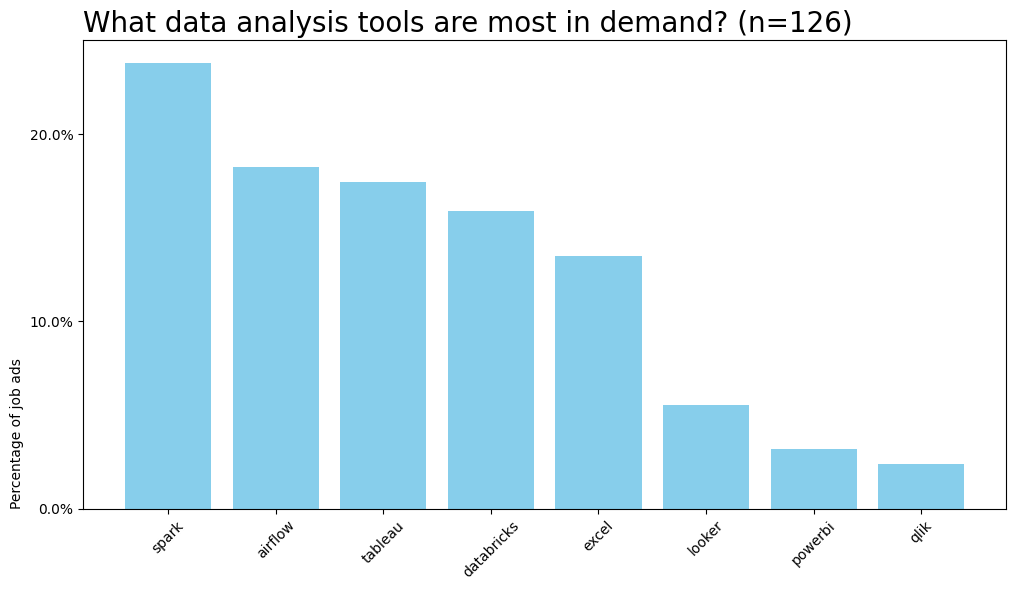
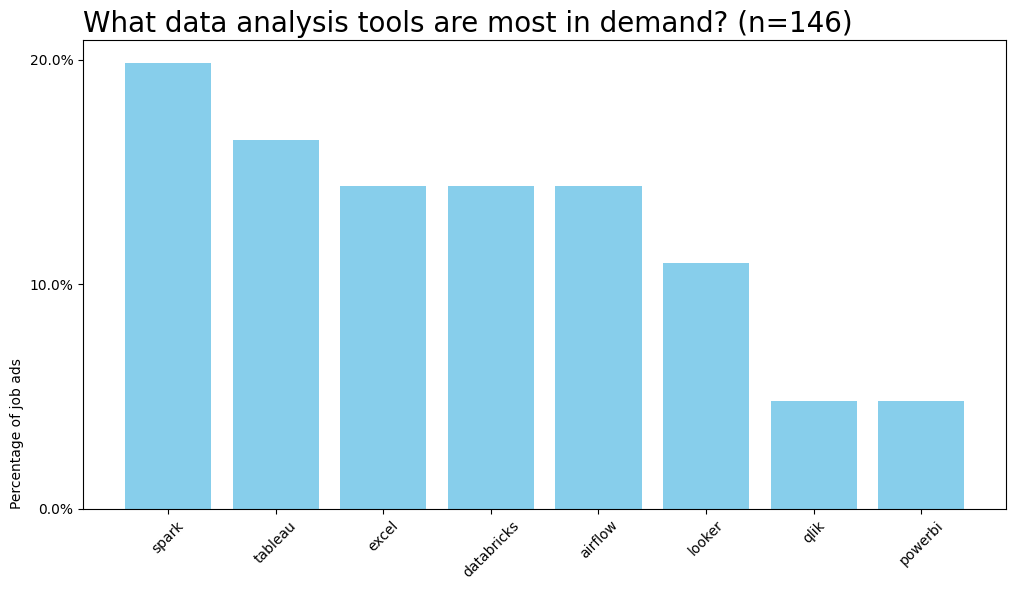
change job ads post

diff --git a/content/post/berlin_job_market/index.md b/content/post/berlin_job_market/index.md
@@ -13,41 +13,55 @@ tags:
 comments: false
 ---
 
-So you want to move into the data field but are unsure where to focus your energy? Look no further!
+So you want to move into the data field but are unsure where to focus your energy? So many different tools, programming langauges and technologies - where to start? **Well... look no further!**
+
+> _-------------- Descriptive analytics of +400 job ads from the Berlin tech market 2024 --------------_
+
+## Programming languages
 
 Firstly let's investigate the most popular programming langauges in data jobs in Berlin.
 
 ![Fig 1 - Programming languages](proglang.png)
 
-It's pretty clear that Python and SQL are the most in demand skills, with a whopping 37% and 32% of all data jobs asking for these skills respectively. The gender-diverse Kings and Queens of data analysis reign supreme! Now this may not be a huge surprise, but what is also interesting to note is the runners up:
+It's pretty clear that **Python and SQL** are the most in demand skills, with over a third of all data jobs asking for these skills respectively. The gender-diverse Kings and Queens of data analysis reign supreme! Now this may not be a huge surprise, but what is also interesting to note is the runners up:
 
-- **Java** - Used often big data data processing and analysis (efficient and scalable).
-- **Scala** - Used for solving big data problems (the language chosen by Apache Spark and works well with Java).
-- **R** - Is a statistical powerhouse with comprehensive ecosystem of packages for analysis, visualisation and ML.
-- **C++** - Used for high power processing due to it's resource effiency (e.g. high frequency trading, complex simulations).
+- **Java** is commonly used for processing and analyzing large amounts of data efficiently.
+- **Scala**  excels at handling big data problems, favored by Apache Spark and compatible with Java..
+- **R** focuses on statistical analysis, with a large collection of packages for data analysis, visualization, and machine learning.
+- **C++** is a powerful programming language known for its efficiency, making it ideal for tasks requiring intense processing, like high-frequency trading or complex simulations.
 
-**Open-source alert!**: Notice how the only two closed-source languages are Matlab and SAS.
+> **Open-source alert!**: Notice how the only two "closed-source" languages are Matlab and SAS (and those you need to pay to use).
 
 Let's move onto data analysis tools...
 
+## Analysis tools
+
+Analysis tools are softwares which make engineers and analysts lives easier as part of their everyday workflow, including things like data visualisation, big data handling, scheduling and more...
+
 ![Fig 2 - Data tools](dattools.png)
 
-Here most people will know Tableau and Excel but what about the other tools?
+Here most people will know **Tableau and Excel** but what about the other tools?
 
-- **Spark** - Apache Spark is a scalable data analysis tool.
-- **Airflow** -  Apache Airflow allow for scheduling and monitoring workflows (e.g. machine learning pipelines).
-- **Databricks** - Databricks is a data warehousing and AI tool (interestingly it was founded by the creators of Apache Spark).
+- **Spark** is an Apache tool that can handle and analyze large amounts of data quickly..
+- **Airflow** is another Apache tool for setting up and keeping an eye on a series of tasks, such as data processing or machine learning steps
+- **Databricks** is a platform for storing data and building AI applications (also made by the developers of Apache Spark). 
 
-What's the deal with all this "Apache"? Well, it's part of the [Apache Software Foundation](https://apache.org/) producing cutting edge open-source (and often **free**) software solutions for many different applications. 
+What's the deal with all this "**Apache**" software? Well, it's part of the [Apache Software Foundation](https://apache.org/) (ASF) a non-profit organization that supports and promotes open-source software projects.
 
-**Open-source alert again!**: With all this free and open-source software (FOSS) around, it's almost surprising that Tableau is still kicking around in the most demanded tools, even though it is propreitary and closed-source, costing around €500-€1000 per year. I doubt this will be for long and predict Tableau to be superceded by a FOSS equivalent within the next 5 years. What do you think?
+> **Open-source alert again!**: With all this free and open-source software (FOSS) around, it's almost surprising that Tableau is still kicking around in the most demanded tools, even though it is propreitary and closed-source, costing around €500-€1000 per year. Do you think there will be a FOSS equivalent within the next 5 years?
 
-Finally... let's check out the Python packages most in demand in 2024:
+Finally... let's check out the Python packages most in demand in 2024.
+
+## Python packages
 
 ![Fig 3 - Python packages](pypack.png)
 
-What do all these Python packages do? Well Pytorch, Tensorflow and Keras are all deep learning and AI packages for complex machine learning problems. Pandas is your everyday data handling tool, scikitlearn your basic ML tool and matplotlib is used for visualisations.
+What do all these Python packages do? Well Pytorch, Tensorflow and Keras are all deep learning and AI packages for complex machine learning problems. Pandas is your everyday data handling tool, scikitlearn your basic ML tool and matplotlib is used for visualisations. Basically, a comprehensive toolkit for building data analytics and machine learning tools!
 
-**TLDR**: If you want a data job in Berlin in 2024, learn Python, SQL and one Apache tool (like Spark or Airflow) and consider becoming a data engineer!
+> **TLDR**: If you want to be competing for Berlin data jobs in 2024, learn Python, SQL and one Apache tool (like Spark or Airflow)!
 
-Checkout the full code [here](https://www.kaggle.com/code/wilomentena/summary-statistics-of-data-job-market-berlin)
+Finally, of course you have to also think for yourself and take this work critically! But this overview hopes to give you a more quantitative approach for your data job journey. 
+
+Hope it helps! And if you have any questions or comments, feel free to get in touch!
+
+Checkout the full analysis [here](https://www.kaggle.com/code/wilomentena/summary-statistics-of-data-job-market-berlin)
